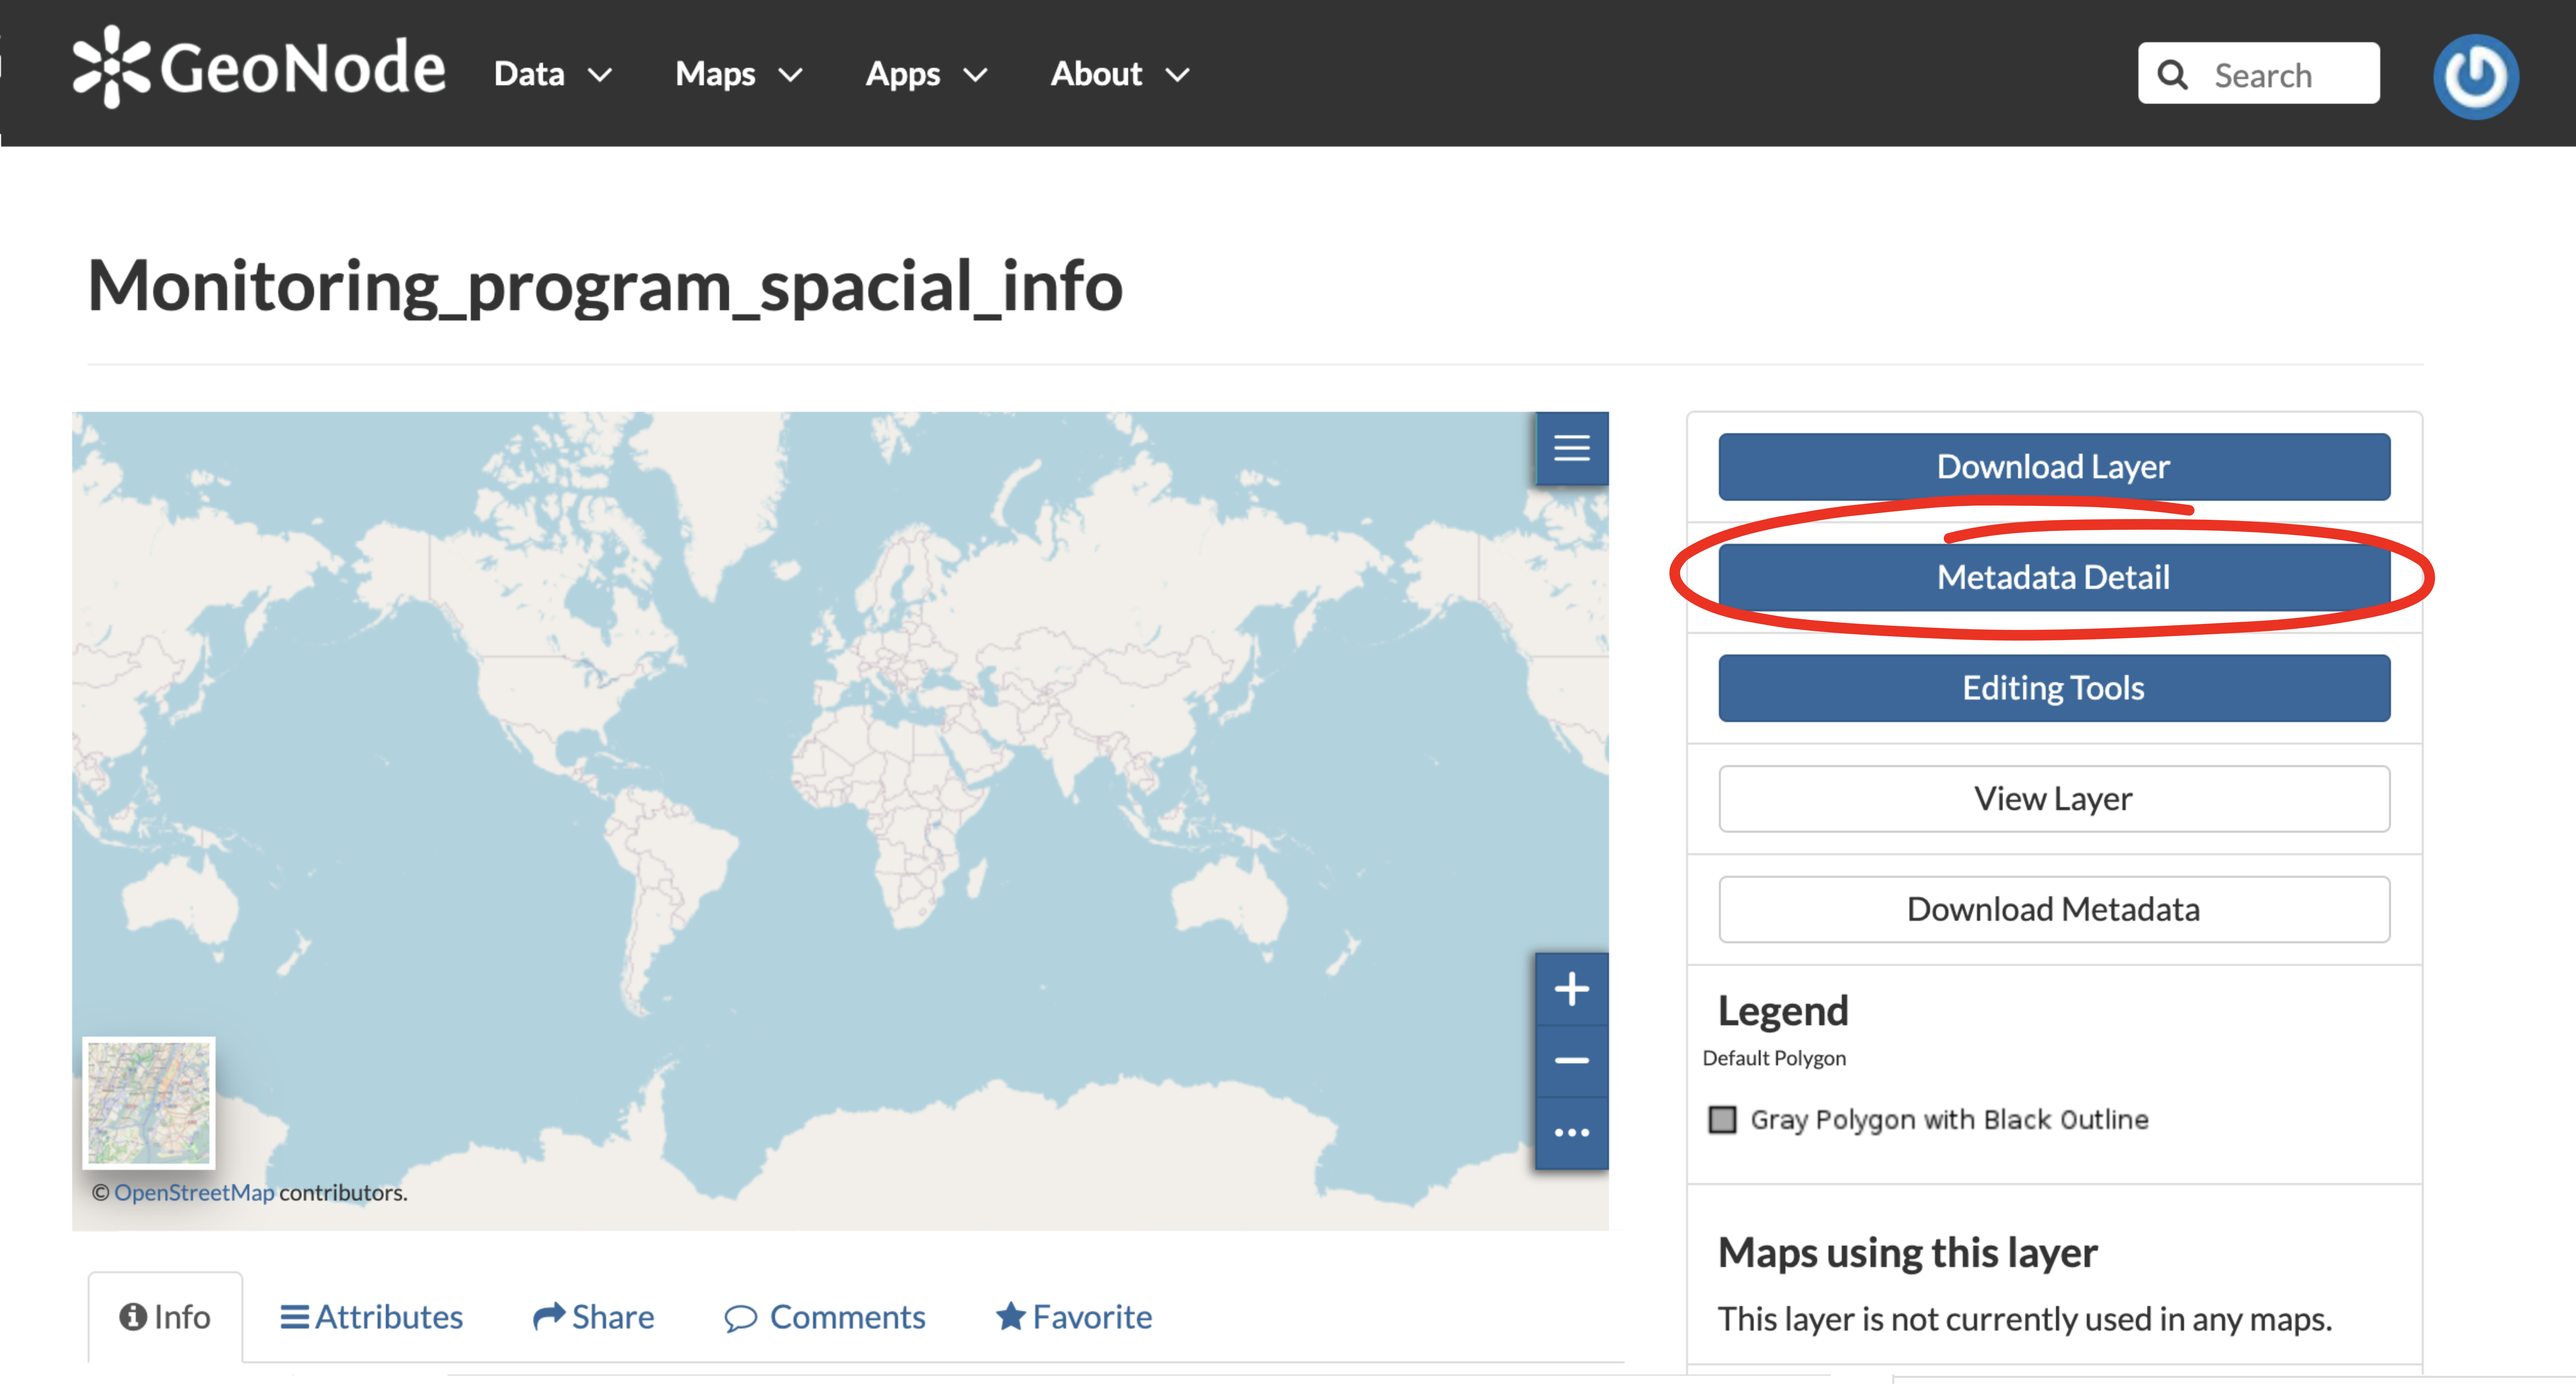
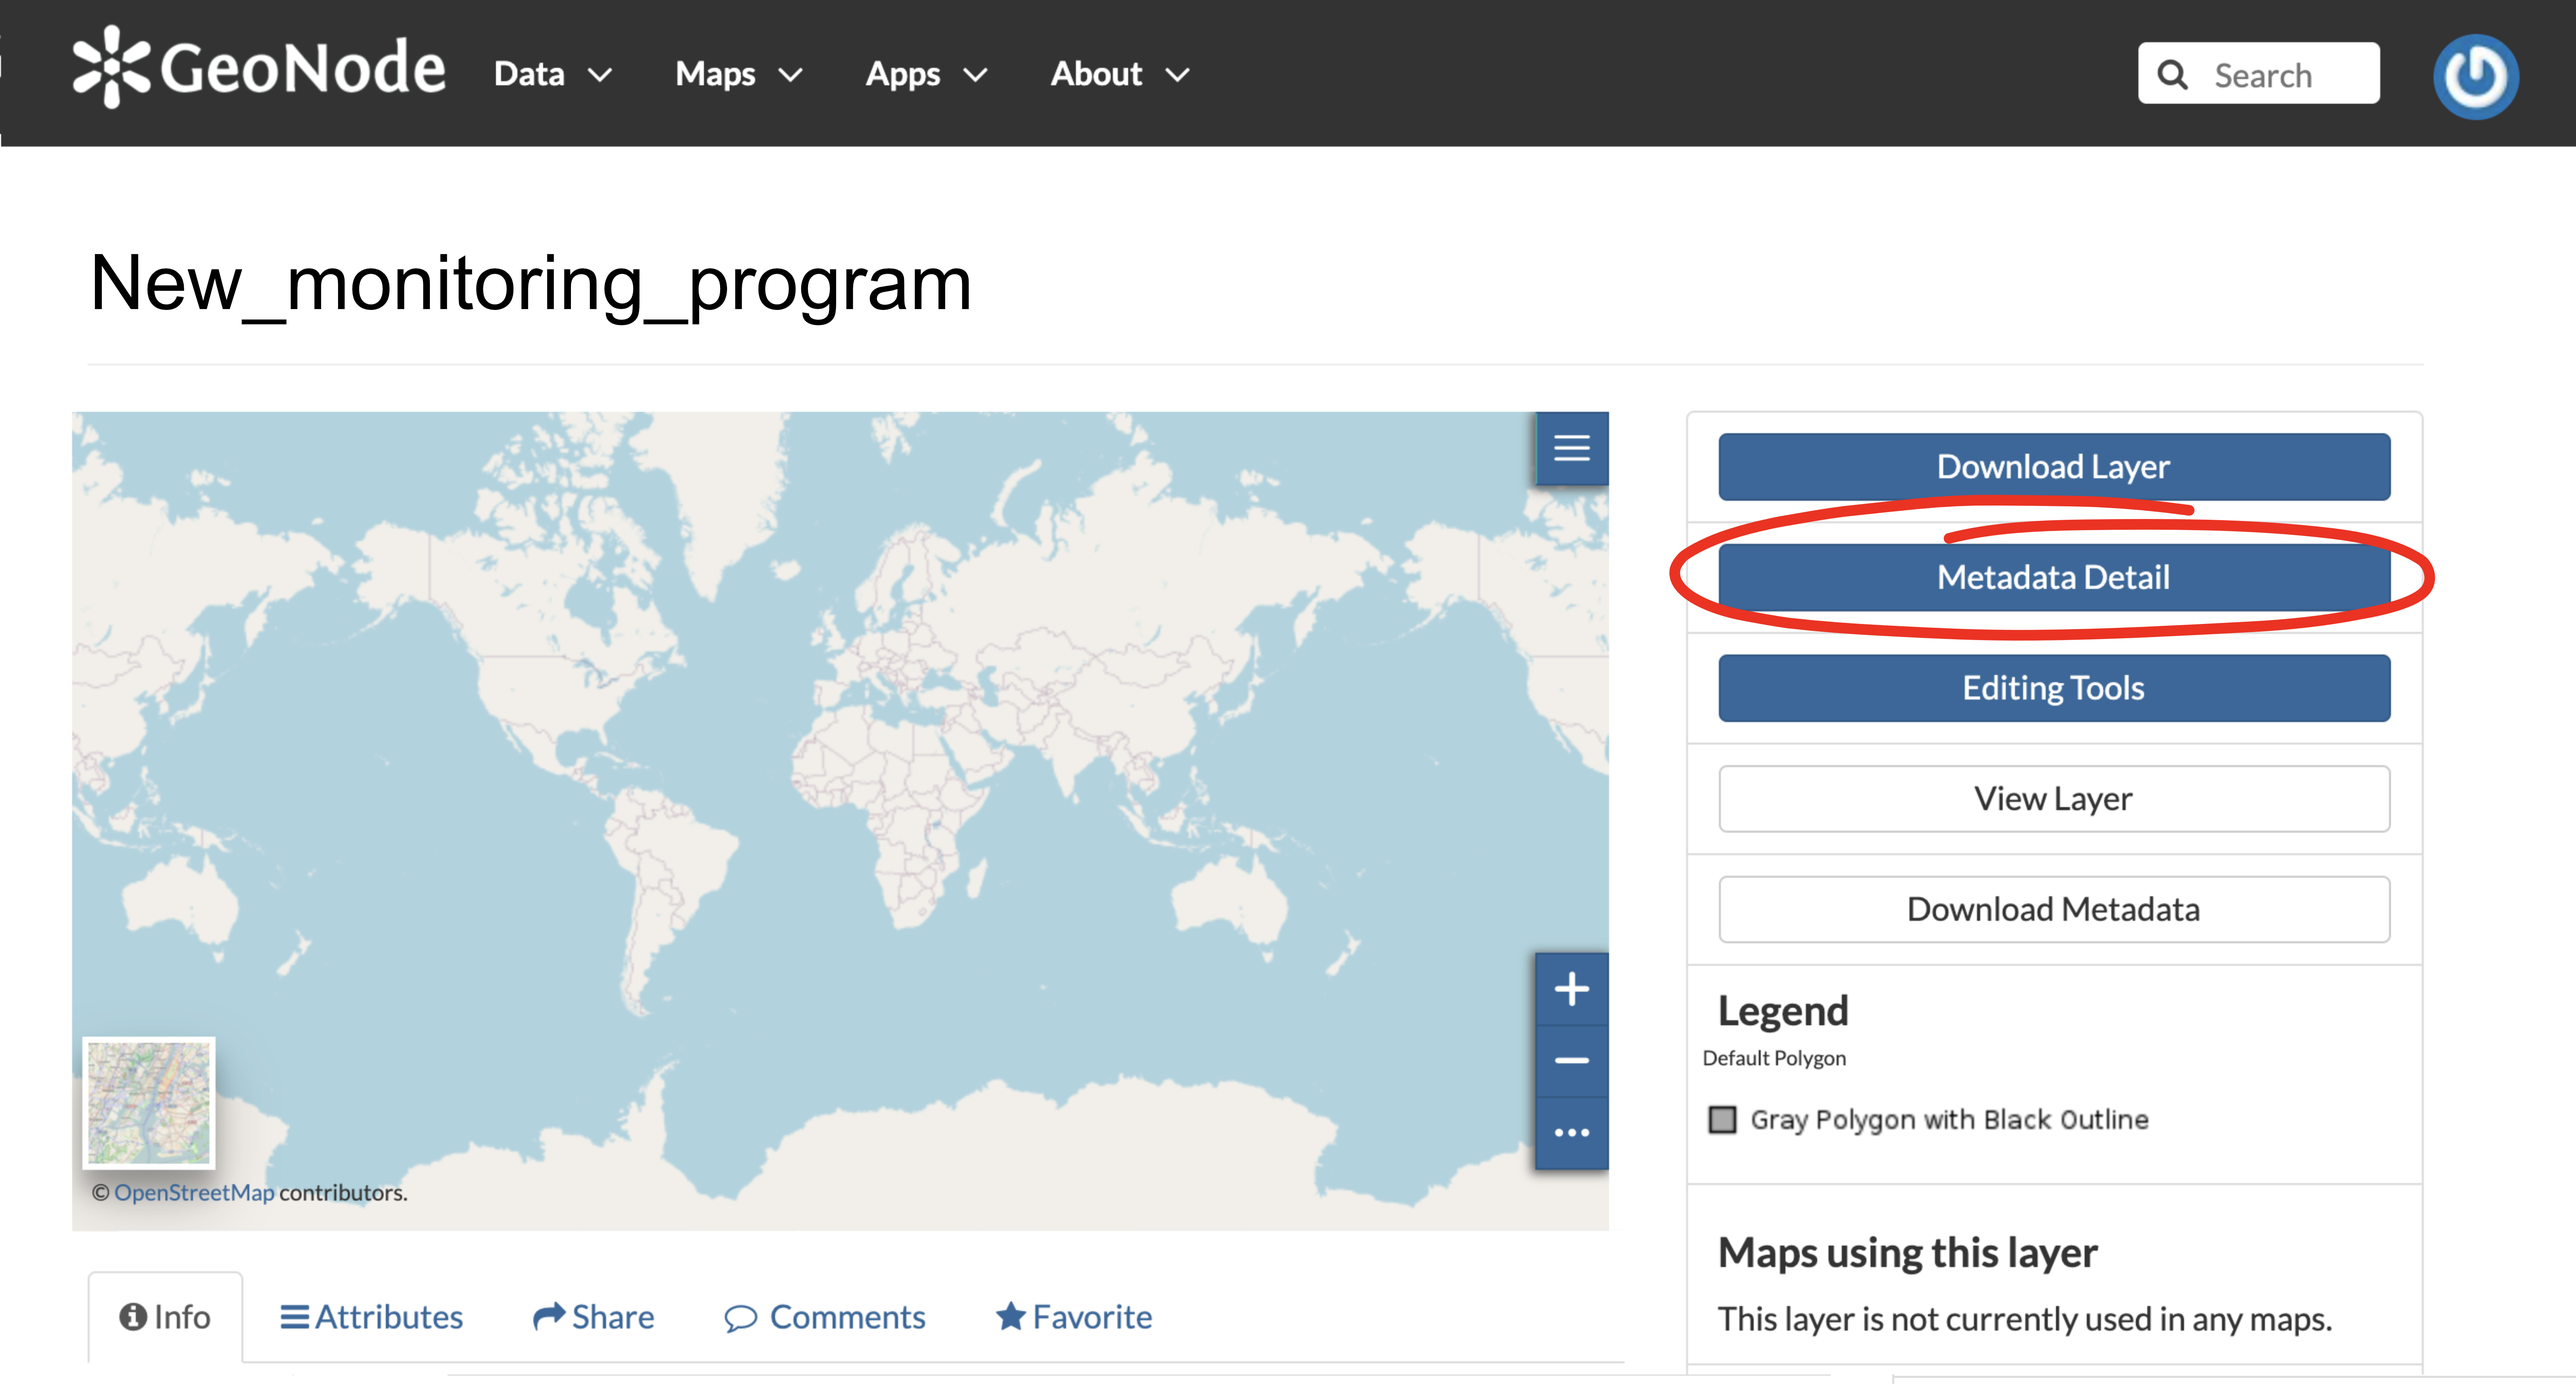
Updated documentation

Changed region(s): [[0.0312, 0.1867, 0.4367, 0.2489]]

diff --git a/docs/index.md b/docs/index.md
@@ -19,25 +19,28 @@ the GeoNode GOOS BioEco homepage. You will be prompted to complete basic
 details such as an email address, username and password.
 
 <img src="images/register.png" width="100%" />
+<p>&nbsp;</p>
+<img src="images/dropdown_profile.png" width="60%" height="60%" style="float:right; padding:10px" />
 
 #### User account and profile
 
-After the details have been completed, you will be signed in and
+<div style="text-align: justify"> After the details have been completed, you will be signed in and
 redirected to the homepage with your username indicated on the top right
 hand corner. An arrow next to the username provides a drop down menu
 with basic user and account options. From the <span
 style="color:gray;">**Profile**</span> page, personal information and
 options can be added and changed. Interaction with other users is
 possible by <span style="color:gray;">**Message User**</span> or <span
-style="color:gray;">**Invite Users**</span>
+style="color:gray;">**Invite Users**</span> </div>
 
-<img src="images/dropdown_profile.png" width="80%" height="80%" />
+<p>&nbsp;</p>
+<p>&nbsp;</p>
 
 ### 2. Add monitoring programs
 
-<img src="images/upload_new.png" width="60%" height="70%" style="float:right; padding:15px" />
+<img src="images/upload_new.png" width="60%" height="60%" style="float:right; padding:10px" />
 
-Navigate to the <span style="color:gray;">**Profile**</span> page. A few
+<div style="text-align: justify"> Navigate to the <span style="color:gray;">**Profile**</span> page. A few
 options are available to upload specific data and data types. To create
 and upload a new monitoring program, select <span
 style="color:gray;">**Upload new layers**</span>. Alternatively, select
@@ -64,57 +67,67 @@ remain with the owner user only. The upload status will be visible at
 the top of the Upload page along with a time stamp of when the layer was
 created and the progress. Once the upload is complete, click on the
 <span style="color:gray;">**Name**</span> of the layer, which will be
-identical to the name of the files uploaded.
+identical to the name of the files uploaded. The newly created layer and spatial metadata can be viewed by navigating to your layer and selecting <span style="color:gray;">**Metadata detail**</span>:</div>
 
-<img src="images/upload_comp.png" width="80%" height="70%" />
-
-The provided metadata detail can be viewed by selecting <span style="color:gray;">**Metadata detail**</span>:
-
-<img src="images/prog_overview.png" width="60%" height="70%" />
+<p align="center">
+  <img width="60%" height="50%" src="images/upload_comp.png">
+</p>
 
 ### 3. Editing metadata
 
-By selecting <span style="color:gray;">**Editing Tools**</span> on the
-right hand panel, the matadata, styles and the spacial data layer can be
-edited, removed and managed.
-
-<img src="images/edit_layer.png" width="60%" height="70%" style="float:left; padding:10px" />
-
-To edit, or add to the spatial layer select <span style="color:gray;">**Edit data**</span> under <span style="color:gray;">**Layer**</span>.
-
-Select <span style="color:gray;">**Advanced Edit**</span> under <span
+<div style="text-align: justify"> By selecting <span style="color:gray;">**Editing Tools**</span> on the
+right hand panel, the matadata, styles and the spacial data layer can be edited, removed and managed. To edit, or add to the spatial layer select <span style="color:gray;">**Edit data**</span> under <span style="color:gray;">**Layer**</span>. Select <span style="color:gray;">**Advanced Edit**</span> under <span
 style="color:gray;">**Metadata**</span> to provide necessary information
-about the uploaded program. Provide a <span
-style="color:gray;">**Title**</span> and an <span
-style="color:gray;">**Abstract**</span> with additional information
-about the program.
+about the uploaded program. 
 
-By default the <span style="color:gray;">**Owner**</span> will be
-indicated as the user that uploaded the data. <span
-style="color:gray;">**Maintenance frequency**</span> refers to the
-frequency at which the site is maintained, visited or observed.<span
-style="color:gray;">**Temporal extent start**</span> and <span
-style="color:gray;">**Temporal extent end**</span> indicate the dates at
-which the program was implemented or started, and when it ended, if it
-is not ongoing.
+<p align="center">
+  <img width="70%" height="70%" src="images/edit_layer.png">
+</p>
 
-The EOV’s studied at the locations of the monitoring program can be
-selected from a drop down menu under <span
-style="color:gray;">**Eovs**</span>. Multiple selection of EOV’s is
-possible.
+<img src="images/fields.png" width="70%" height="50%" style="float:left" />
 
-Provide the levels of <span style="color:gray;">**Readiness
-requirements**</span>, <span style="color:gray;">**Readiness
-coordination**</span>, <span style="color:gray;">**Readiness
-data**</span> according to the options provided in the drop down menu.
-For more information regarding the classification and description of
-levels, see <span style="color:gray;">**[A Framework for Ocean
-Observing](DOI:10.5270/OceanObs09-FOO)**</span>.
+<p>&nbsp;</p>
+<p>&nbsp;</p>
+<p>&nbsp;</p>
 
-The <span style="color:gray;">**Project website**</span> can be given as
-URL in the space provided. The <span style="color:gray;">**Point of
-contact**</span> for the program and data as an institutional email
-address.
+#### Program
+<div style="text-align: justify">Provide a <span style="color:gray;">**Title**</span> and an <span style="color:gray;">**Abstract**</span> with a short introduction to/ basic info on the monitoring program. By default the <span style="color:gray;">**Owner**</span> will be indicated as the metadata provider that uploaded the metadata. <span style="color:gray;">**Edition**</span> refers to the version of the cited resource, which could be useful when frequent updates to the metadata are made. 
+
+The field for <span style="color:gray;">**DOI**</span> will be completed by admin and should be left open. <span style="color:gray;">**Maintenance frequency**</span> refer to the intervals in which data is collected/ observations are made. Choose from the drop-down selection. A space is provided for <span style="color:gray;">**Free-text Keywords**</span> that are useful for user filtering options. Select the applicable <span style="color:gray;">**Regions**</span> where the monitoring is done. </div>
+
+<p>&nbsp;</p>
+
+
+#### Data accessibility
+<div style="text-align: justify">Provide the <span style="color:gray;">**Licence**</span> licence applicable to the data/ metadata of the program. Choose from the drop-down selection. More info on creative commons licence types and descriptions can be found [here](https://creativecommons.org/licenses/). 
+
+<span style="color:gray;">**temporal extent start**</span> and <span style="color:gray;">**temporal extent end**</span> indicate the dates at which the program was implemented or started, and when it ended, in the format dd.mm.yyyy. If it is currently still active, leave the field empty or provide a future date if the program is planned to end at a specific date in the future. 
+
+The fields <span style="color:gray;">**Metadata uploaded preserve**</span>, <span style="color:gray;">**Featured**</span> and <span style="color:gray;">**Is Published**</span> will be completed by admin and can be left empty. </div>
+
+
+<div style="text-align: justify">Provide a URL or link to the main <span style="color:gray;">**Project website**</span> of the monitoring project, a link to <span style="color:gray;">**SOPs**</span> used and/ or <span style="color:gray;">**Outputs**</span>, where available. 
+
+Please indicate whether or not the program data is published on the OBIS database under <span style="color:gray;">**In OBIS**</span> and indicate if the data provider/ project managers are <span style="color:gray;">**Interested in publishing to OBIS**</span>. 
+
+Indicate the funder/s of the monitoring program under <span style="color:gray;">**Funding**</span> and specify the <span style="color:gray;">**Funding sector **</span> of the funder/s by choosing from the drop-down selection. 
+
+An email address for the <span style="color:gray;">**Point of contact**</span> for the responsible person providing the information is required as well as the full name of the <span style="color:gray;">**Metadata author**</span>. </div>
+
+<p>&nbsp;</p>
+
+#### GOOS EOVs
+<div style="text-align: justify">Select all the Biology and Ecosystems Essential Ocean Variables (EOV) observed/ monitored. Choose from the drop-down selection under <span style="color:gray;">**GOOS Essential Ocean Variables (EOVs)**</span>. Multiple selection of EOV’s is possible. 
+
+Provide the levels of readiness of <span style="color:gray;">**GOOS Readiness - Data management and information products**</span>, <span style="color:gray;">**GOOS Readiness - Coordination of observations elements**</span> and <span style="color:gray;">**GOOS Readiness - Requirement processes**</span> according to the options provided in the drop down menu.The readiness level system is the approach for evaluating new components for possible inclusion in the global ocean observing systems. For more info on the categorization and description of levels, see [A Framework for Ocean Observing](https://unesdoc.unesco.org/ark:/48223/pf0000211260) (specifically pages 8–13).
+
+Additional measurements taken/ observations made of the main EOV (BioEco EOV sub-variables, as well as Physics, Biochemistry, and Cross-disciplinary EOVs) can be provided under <span style="color:gray;">**GOOS Essential Ocean Variable (EOV) subvariables**</span> and <span style="color:gray;">**GOOS Essential Ocean Variables (EOVs): Physics, Biochemistry, and Cross-disciplinary**</span>. Choose from the drop-down selection and add as many rows of sub-variables as needed. For information on, and descriptions of sub-variables, refer to the [GOOS specification sheet](https://www.goosocean.org/index.php?option=com_content&view=article&layout=edit&id=283&Itemid=441) of each respective EOV.</div>
+
+<p>&nbsp;</p>
+<p>&nbsp;</p>
+<p>&nbsp;</p>
+<p>&nbsp;</p>
+<p>&nbsp;</p>
 
 ### 4. Add additional Attributes
 
